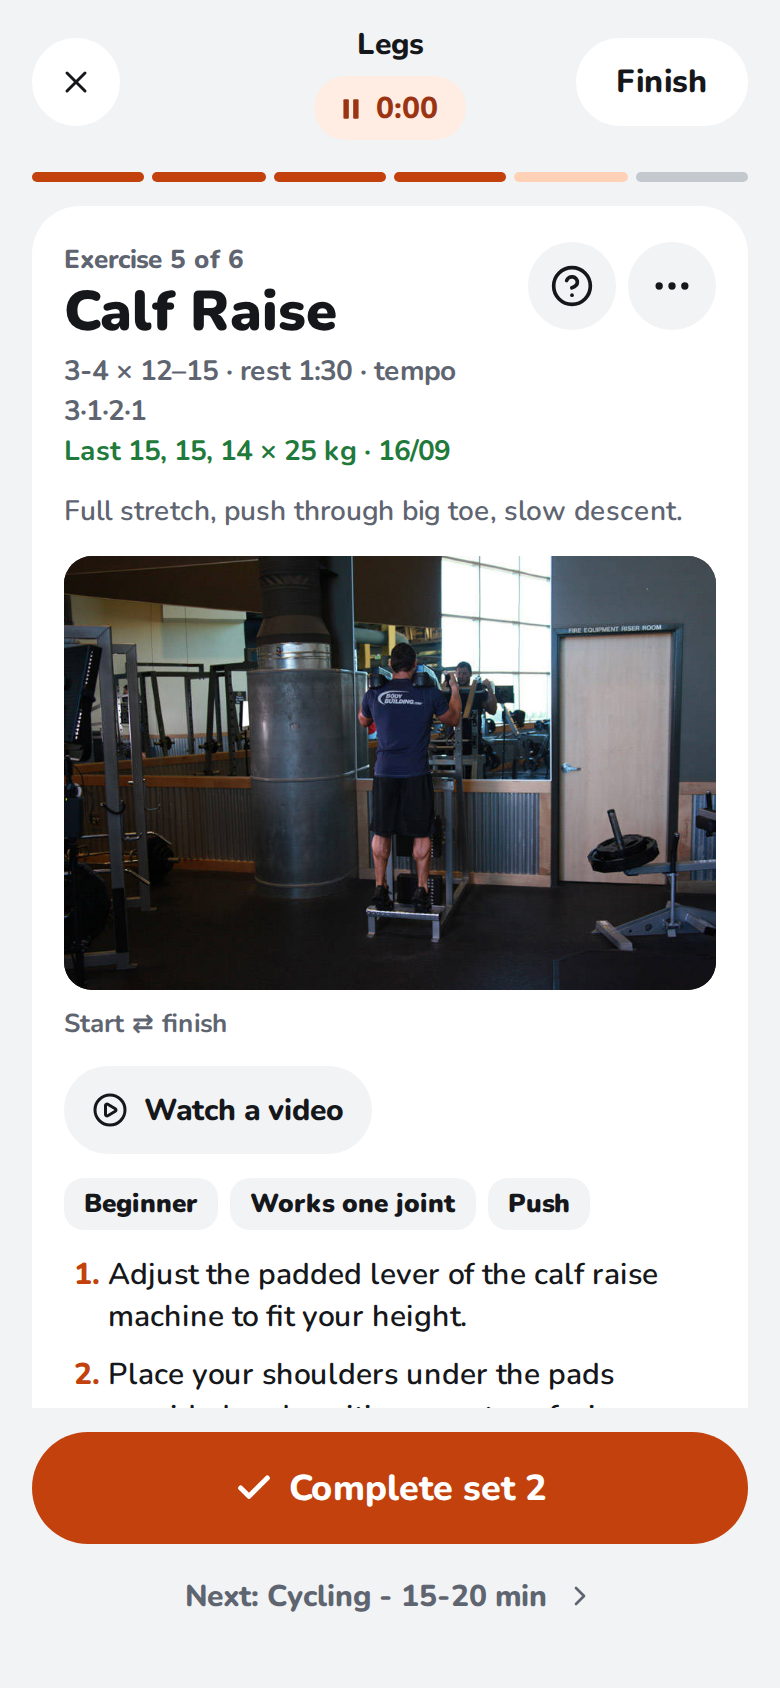
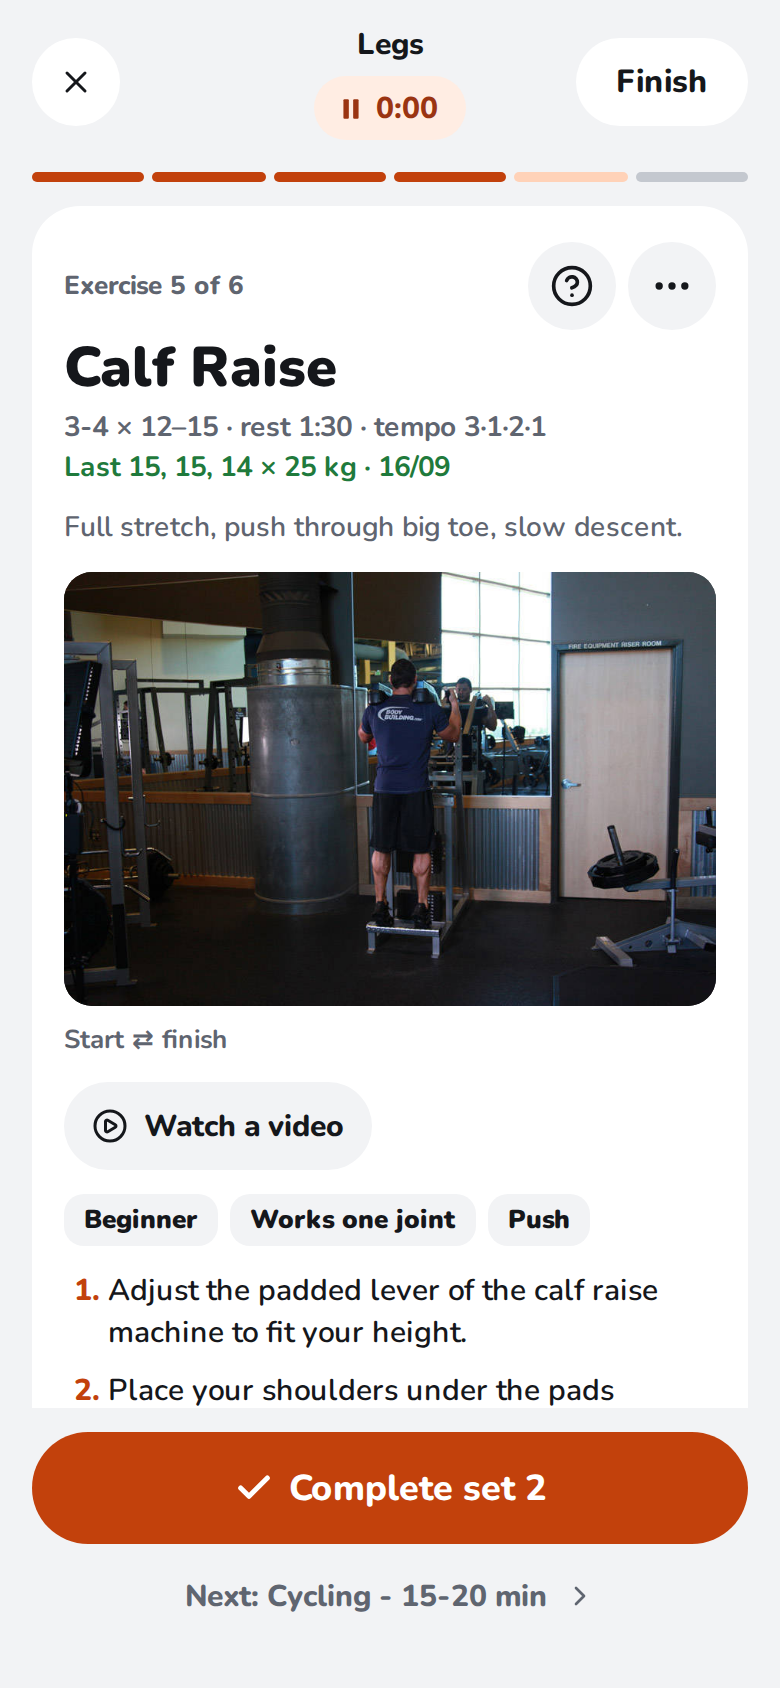
Workout: line up the set table, and give a lift's name the card's width
What looked wrong: in the set table the "Set" and "Last" headings sat at the
left of their columns while the numbers under them were centred (Set) or
left-hung (Last), so nothing lined up; Last took all the slack, leaving a
wide gap before the kg box; the kg box was wider than the reps box (80 and
64px); the active row was 64px tall and the others 56px, so the checks
weren't evenly spaced; the PR badge sat at a fixed 118px (100px at 360px)
rather than over the kg column; last time's "102.5 × 10" was cut to
"102.5 ×…" at 360px; Warm-up sets broke onto two lines at 360px. Above it,
the lift's name and "3 × 10–12 · rest 1:30 · tempo 3·1·2·1" shared their
width with the mic, how-to and ··· buttons, so names wrapped to three lines
and "tempo" was split from its numbers.

What changed:
- The header and every row take their columns from one --set-cols list,
  and every cell centres what it holds: 28px, then Last, kg and Reps
  sharing what's left (kg and Reps equal, Last a little more, enough for
  "102.5 × 10" at 360px), then the 44px check. The 360px override goes.
- Every set row is 56px, boxes 44px (as tall as the check), rows 4px apart.
- The PR badge is placed in the kg column's grid area and centred there.
- + Add set and Warm-up sets keep their words on one line (Warm-up sets
  moves under the others when − Set also shows on a small phone).
- A lift's head is a grid: "Exercise 2 of 6" (or, in a superset, the
[…]

Changed region(s): [[0.0615, 0.1232, 0.9231, 0.6777], [0.0923, 0.7085, 0.8615, 0.8318], [0.3692, 0.5237, 0.4, 0.5545]]

diff --git a/src/styles/train.css b/src/styles/train.css
@@ -75,10 +75,17 @@
 
 /* the exercise card */
 .ex-card{padding:18px 16px 12px;gap:10px}
-.ex-head{display:flex;justify-content:space-between;align-items:flex-start;gap:12px}
-.ex-t{min-width:0}
+/* The card's first line ("Exercise 2 of 6", or in a superset the lift's name) shares its row with the buttons (or the
+   cardio's icon); everything under it, the name and what it's asked for, runs the card's whole width rather than
+   wrapping in the narrow space beside the buttons. */
+.ex-head{display:grid;grid-template-columns:minmax(0,1fr) auto;align-items:center;gap:0 12px}
+.ex-t{display:contents}
+.ex-t>*{grid-column:1/-1}
+.ex-t>:first-child{grid-area:1/1}
+.ex-head>:not(.ex-t){grid-area:1/2}
 .ex-step{font:800 13px/18px var(--font-sans);color:var(--ink-muted)}
 .ex-name{margin-top:2px;font:900 28px/1.1 var(--font-sans);overflow-wrap:anywhere}
+.ex-step+.ex-name{margin-top:4px}
 .ex-card.superset .ex-name{font-size:20px}
 .sstag{display:inline-block;margin-right:6px;padding:2px 8px;border-radius:8px;background:var(--brand-tint);color:var(--brand-tint-ink);font:900 13px/18px var(--font-sans);vertical-align:3px}
 .ex-was{font:var(--type-label);color:var(--ink-muted)}
@@ -93,7 +100,7 @@
 .ss-h b{color:var(--ink);font-weight:900}
 .ss-lift{display:grid;gap:8px;padding-top:10px;border-top:1px solid var(--line)}
 .ss-lift.skipped .nm{text-decoration:line-through;color:var(--ink-muted)}
-.round{display:grid;gap:2px}
+.round{display:grid;gap:4px}
 .round-h{padding:6px 4px 0;font:800 12px/16px var(--font-sans);color:var(--ink-muted)}
 .skipnote{font:var(--type-body);color:var(--ink-muted)}
 .lift .said{margin:0;font:600 14px/1.4 var(--font-sans);color:var(--ink-muted)}
@@ -111,23 +118,26 @@
 .tick:checked::after{border-color:var(--on-brand)}
 .tick:disabled{opacity:.5;cursor:default}
 
-/* the set table (SetRow spec): Set · Last · kg · Reps · check */
-.sets{display:grid;gap:2px}
-.srow{position:relative;display:grid;grid-template-columns:30px minmax(0,1fr) 80px 64px 44px;gap:8px;align-items:center;padding:0 4px}
+/* the set table (SetRow spec): Set · Last · kg · Reps · check. The header and every row take their columns from this
+   one list, and every cell centres what it holds, so a heading, the active row's box and a plain number below it share
+   one centre. kg and Reps split what's left evenly, so their boxes are one size, and Last takes a little more, enough
+   for "102.5 × 10" on a 360px phone, rather than all the slack. Every row is the same height, so the checks line up
+   evenly down one column. */
+.sets{--set-cols:28px minmax(0,1.15fr) minmax(0,1fr) minmax(0,1fr) 44px;display:grid;gap:4px}
+.srow{position:relative;display:grid;grid-template-columns:var(--set-cols);gap:6px;align-items:center;padding:0 4px;text-align:center}
 .shead{height:28px;font:800 12px/16px var(--font-sans);color:var(--ink-muted)}
-.shead .c{text-align:center}
 .srow.set{height:56px;border-radius:var(--radius-md)}
-.srow.set.active{height:64px}
 .srow.done{background:var(--brand-row)}
-.srow .sn{position:relative;display:grid;place-items:center;width:30px;height:44px;padding:0;border:0;background:none;color:var(--ink);font:900 17px/1 var(--font-sans);cursor:pointer;border-radius:var(--radius-sm)}
+.srow .sn{position:relative;display:grid;place-items:center;width:100%;height:44px;padding:0;border:0;background:none;color:var(--ink);font:900 17px/1 var(--font-sans);cursor:pointer;border-radius:var(--radius-sm)}
 /* 44px wide to tap: the target reaches into the row's edge and the Last column beside it */
-.srow .sn::before{content:"";position:absolute;inset:0 -7px}
+.srow .sn::before{content:"";position:absolute;inset:0 -8px}
 .srow.done .sn{color:var(--brand-text)}
 .srow.up .sn{color:var(--ink-muted)}
 .srow .sn[data-kind="failure"] span,.srow .sn[data-kind="drop"] span{color:var(--warn-ink);background:var(--warn-bg);padding:2px 4px;border-radius:6px;font-size:14px}
 .srow .sn[aria-expanded="true"]{background:var(--surface-sunken)}
-.srow .last{font:700 15px/1 var(--font-sans);color:var(--ink-muted);white-space:nowrap;overflow:hidden;text-overflow:ellipsis}
-.srow input{width:100%;min-width:0;height:48px;padding:0 4px;border-radius:var(--radius-md);border:1.5px solid transparent;background:transparent;color:var(--ink);text-align:center;font:var(--type-input-num)}
+.srow .last{min-width:0;font:700 14px/1 var(--font-sans);color:var(--ink-muted);white-space:nowrap;overflow:hidden;text-overflow:ellipsis}
+/* No side padding: the number is centred, and a 3-digit weight (102.5) needs the whole box on a small phone. */
+.srow input{width:100%;min-width:0;height:44px;padding:0;border-radius:var(--radius-md);border:1.5px solid transparent;background:transparent;color:var(--ink);text-align:center;font:var(--type-input-num)}
 .srow.up input{color:var(--ink-muted);font-weight:800}
 .srow.active input{background:var(--surface);border-color:var(--ink-subtle)}
 .srow.active input:first-of-type{border:2px solid var(--brand)}
@@ -143,7 +153,9 @@
   .chk{transition:background-color var(--press) var(--ease),transform var(--press) var(--ease)}
   .chk:active{transform:scale(.92)}
 }
-.prb{display:none;position:absolute;top:-6px;left:118px;align-items:center;gap:3px;padding:2px 7px;border-radius:8px;background:var(--brand-tint);color:var(--brand-tint-ink);font:900 11px/14px var(--font-sans)}
+/* A record's badge sits on the top edge of the kg column, centred over it: placed in that column's grid area, it
+   follows the column at any width. */
+.prb{display:none;position:absolute;grid-area:1/3/2/4;top:-6px;left:0;right:0;width:max-content;margin:0 auto;align-items:center;gap:3px;padding:2px 7px;border-radius:8px;background:var(--brand-tint);color:var(--brand-tint-ink);font:900 11px/14px var(--font-sans)}
 .srow.pr .prb{display:inline-flex}
 .setmenu-w{display:grid;gap:10px;padding:12px;margin:2px 0 6px;border-radius:var(--radius-md);background:var(--surface-sunken)}
 .setmenu{display:grid;gap:10px}
@@ -151,10 +163,11 @@
 .setmenu .seg-b.on{background:var(--surface-sunken)}
 .setmenu .field{max-width:220px}
 .plates-info{font:700 14px/1.4 var(--font-sans);color:var(--ink)}
+/* Equal widths while they fit on one line, each on one line of its own words: on a small phone with − Set showing too,
+   Warm-up sets moves under the others rather than breaking in two. */
 .setbtns{display:flex;flex-wrap:wrap;gap:8px;margin-top:6px}
-.setbtns>.btn{flex:1 1 0;border-radius:var(--radius-md)}
+.setbtns>.btn,.setbtns .wset-t{flex:1 1 0;min-width:max-content;padding:0 12px;white-space:nowrap;border-radius:var(--radius-md)}
 .setbtns .wset{display:contents}
-.setbtns .wset-t{flex:1 1 0;border-radius:var(--radius-md)}
 .setbtns .wset-t .chev{transition:transform var(--press) var(--ease)}
 .setbtns .wset-t[aria-expanded="true"] .chev{transform:rotate(180deg)}
 .wset-panel{flex-basis:100%;display:grid;gap:10px;padding:12px;border-radius:var(--radius-md);background:var(--surface-sunken)}
@@ -198,7 +211,6 @@
 .ring-sum{flex-direction:row;align-items:center;gap:14px;padding:14px 16px}
 .ring-sum p{font:700 15px/1.35 var(--font-sans);color:var(--ink)}
 .ring-sum b{color:var(--success);font-weight:900}
-@media (max-width:360px){.srow{grid-template-columns:26px minmax(0,1fr) 72px 58px 44px;gap:6px}.prb{left:100px}}
 .lrow .row-d{display:-webkit-box;-webkit-line-clamp:2;-webkit-box-orient:vertical;overflow:hidden}
 #nextEx{min-width:0;max-width:100%}
 #nextEx .nx{min-width:0;overflow:hidden;text-overflow:ellipsis;white-space:nowrap}

diff --git a/src/components/today/LiftItem.tsx b/src/components/today/LiftItem.tsx
@@ -558,7 +558,12 @@ export function LiftHead({
   }
 
   const rest = restSecFor(store.plan, x), tempo = store.plan.tempo.replace(/[:/-]/g, "·");
-  const meta = [target.sets || target.reps ? targetWords(target) : "", m.item.extra ? "" : `rest ${mmss(rest)}`, tempo && !m.item.extra ? `tempo ${tempo}` : ""].filter(Boolean).join(" · ");
+  // Each part kept whole ("tempo 3·1·2·1", not "tempo" at the end of one line and its numbers on the next): a line
+  // breaks only between them.
+  const meta = [target.sets || target.reps ? targetWords(target) : "", m.item.extra ? "" : `rest ${mmss(rest)}`, tempo && !m.item.extra ? `tempo ${tempo}` : ""]
+    .filter(Boolean)
+    .map((part) => part.replace(/ /g, "\u00a0"))
+    .join(" · ");
   const lastTop = last ? topKg(setsOf(last.r).filter(isWorkingSet)) : null, cur = r.kg ?? null;
   return (
     <>
@@ -613,14 +618,14 @@ export function LiftHead({
   );
 }
 
-/** The set table's header row. */
+/** The set table's header row: a .srow like the sets under it, so each heading takes its column's place and centre. */
 export function SetHead({ tag }: { tag?: boolean }) {
   return (
     <div className="srow shead" aria-hidden="true">
       <span>{tag ? "" : "Set"}</span>
       <span>Last</span>
-      <span className="c">kg</span>
-      <span className="c">Reps</span>
+      <span>kg</span>
+      <span>Reps</span>
       <span />
     </div>
   );
